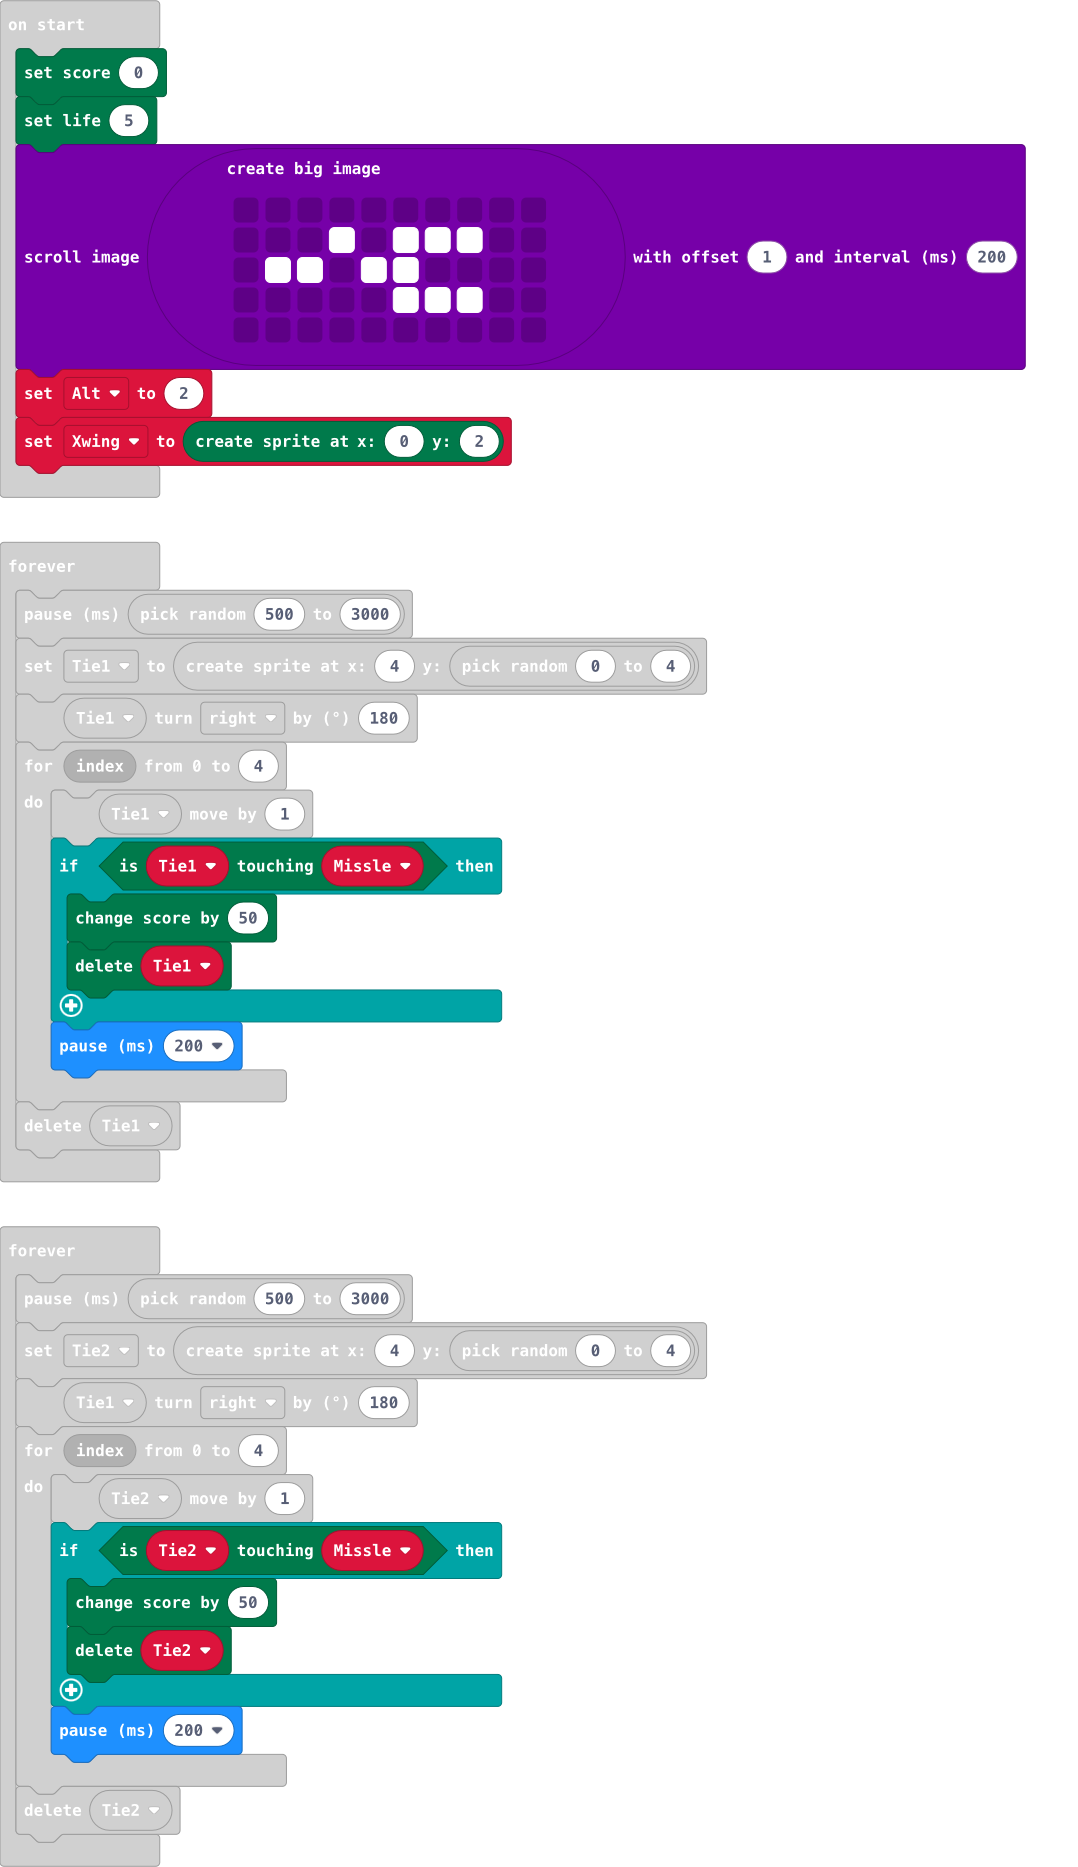
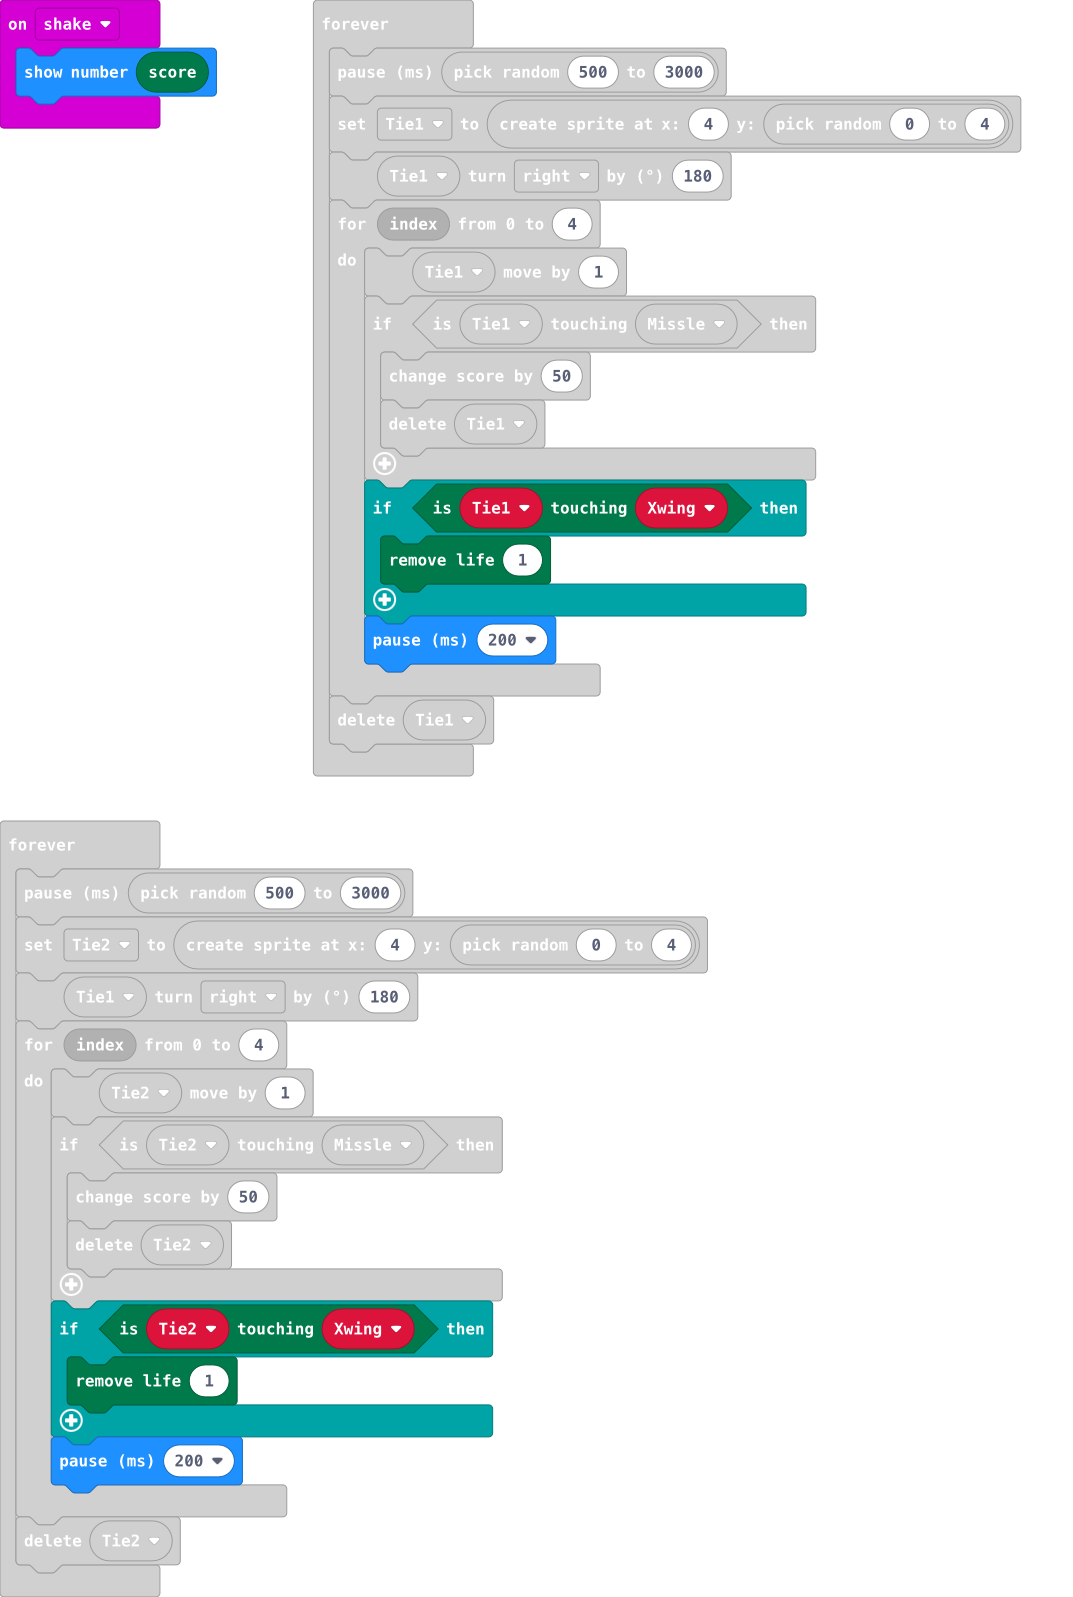
Update main.blocks, main.ts

diff --git a/main.ts b/main.ts
@@ -20,6 +20,9 @@ input.onButtonPressed(Button.B, function () {
     }
     Xwing.set(LedSpriteProperty.Y, Alt)
 })
+input.onGesture(Gesture.Shake, function () {
+    basic.showNumber(game.score())
+})
 let Tie2: game.LedSprite = null
 let Tie1: game.LedSprite = null
 let Missle: game.LedSprite = null
@@ -46,6 +49,9 @@ basic.forever(function () {
             game.addScore(50)
             Tie1.delete()
         }
+        if (Tie1.isTouching(Xwing)) {
+            game.removeLife(1)
+        }
         basic.pause(200)
     }
     Tie1.delete()
@@ -59,6 +65,9 @@ basic.forever(function () {
         if (Tie2.isTouching(Missle)) {
             game.addScore(50)
             Tie2.delete()
+        }
+        if (Tie2.isTouching(Xwing)) {
+            game.removeLife(1)
         }
         basic.pause(200)
     }
